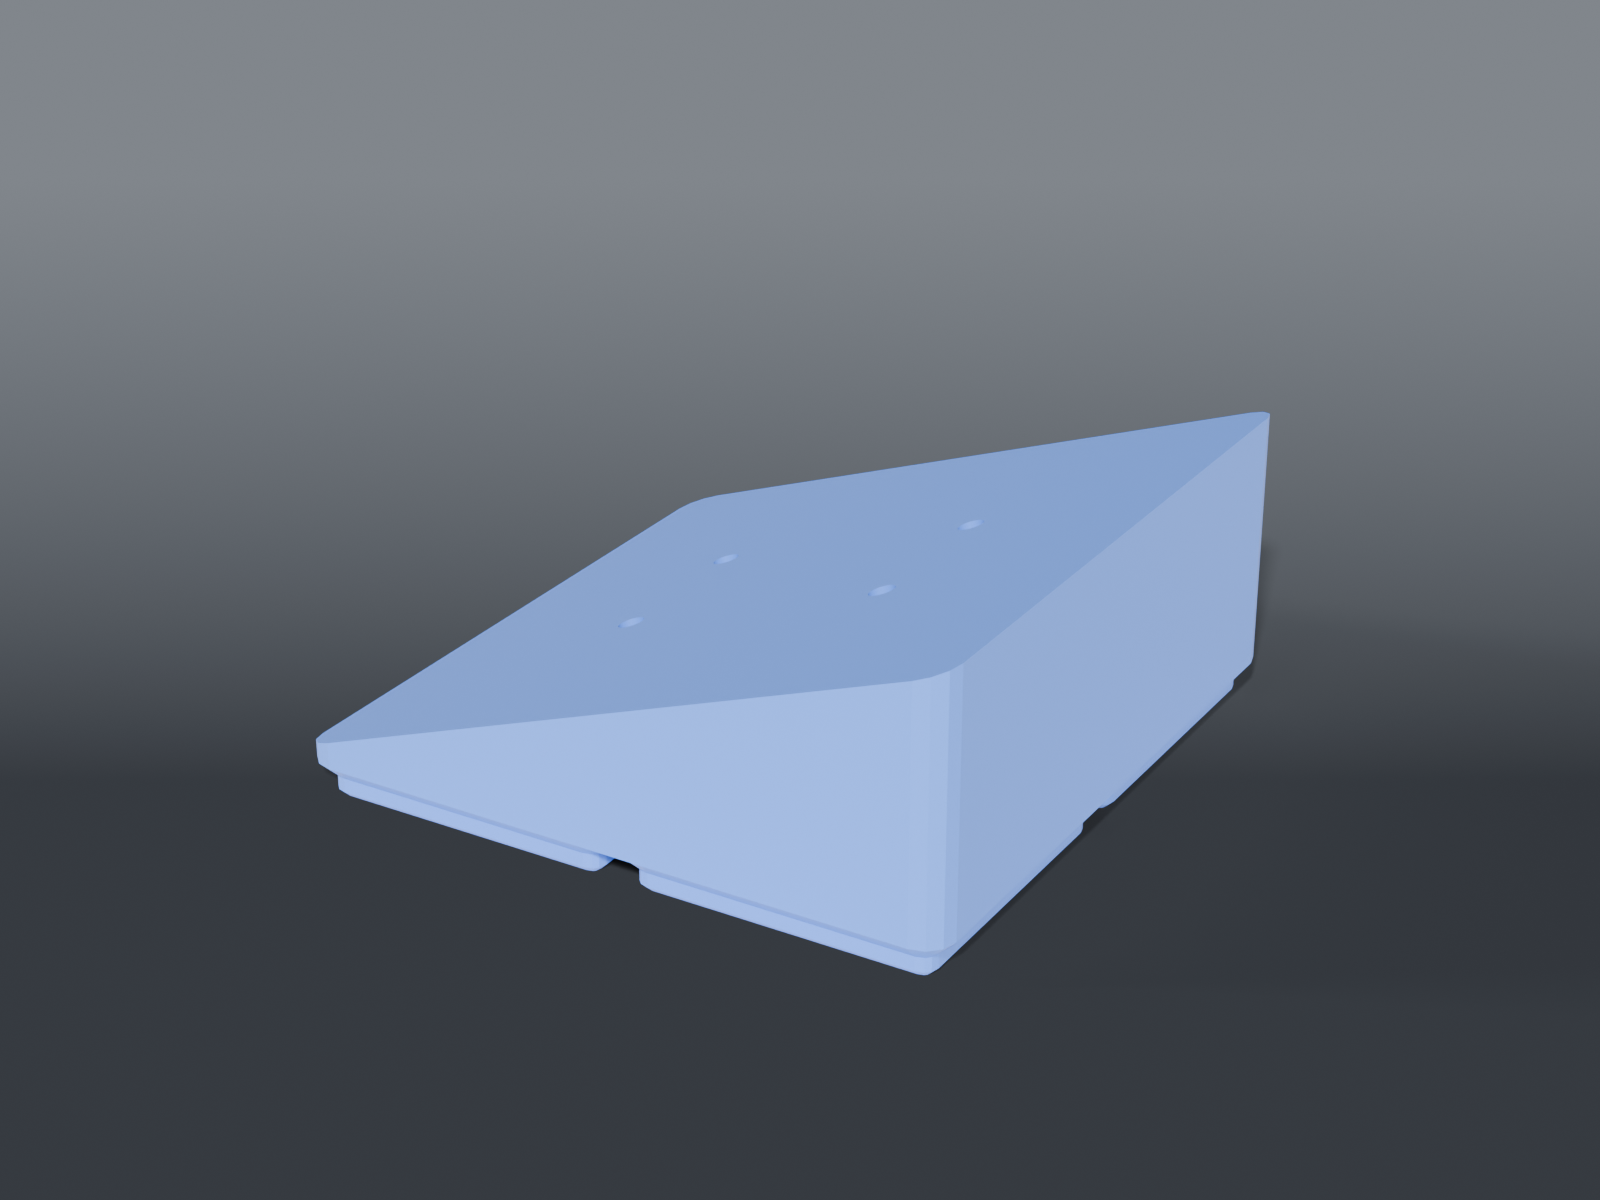
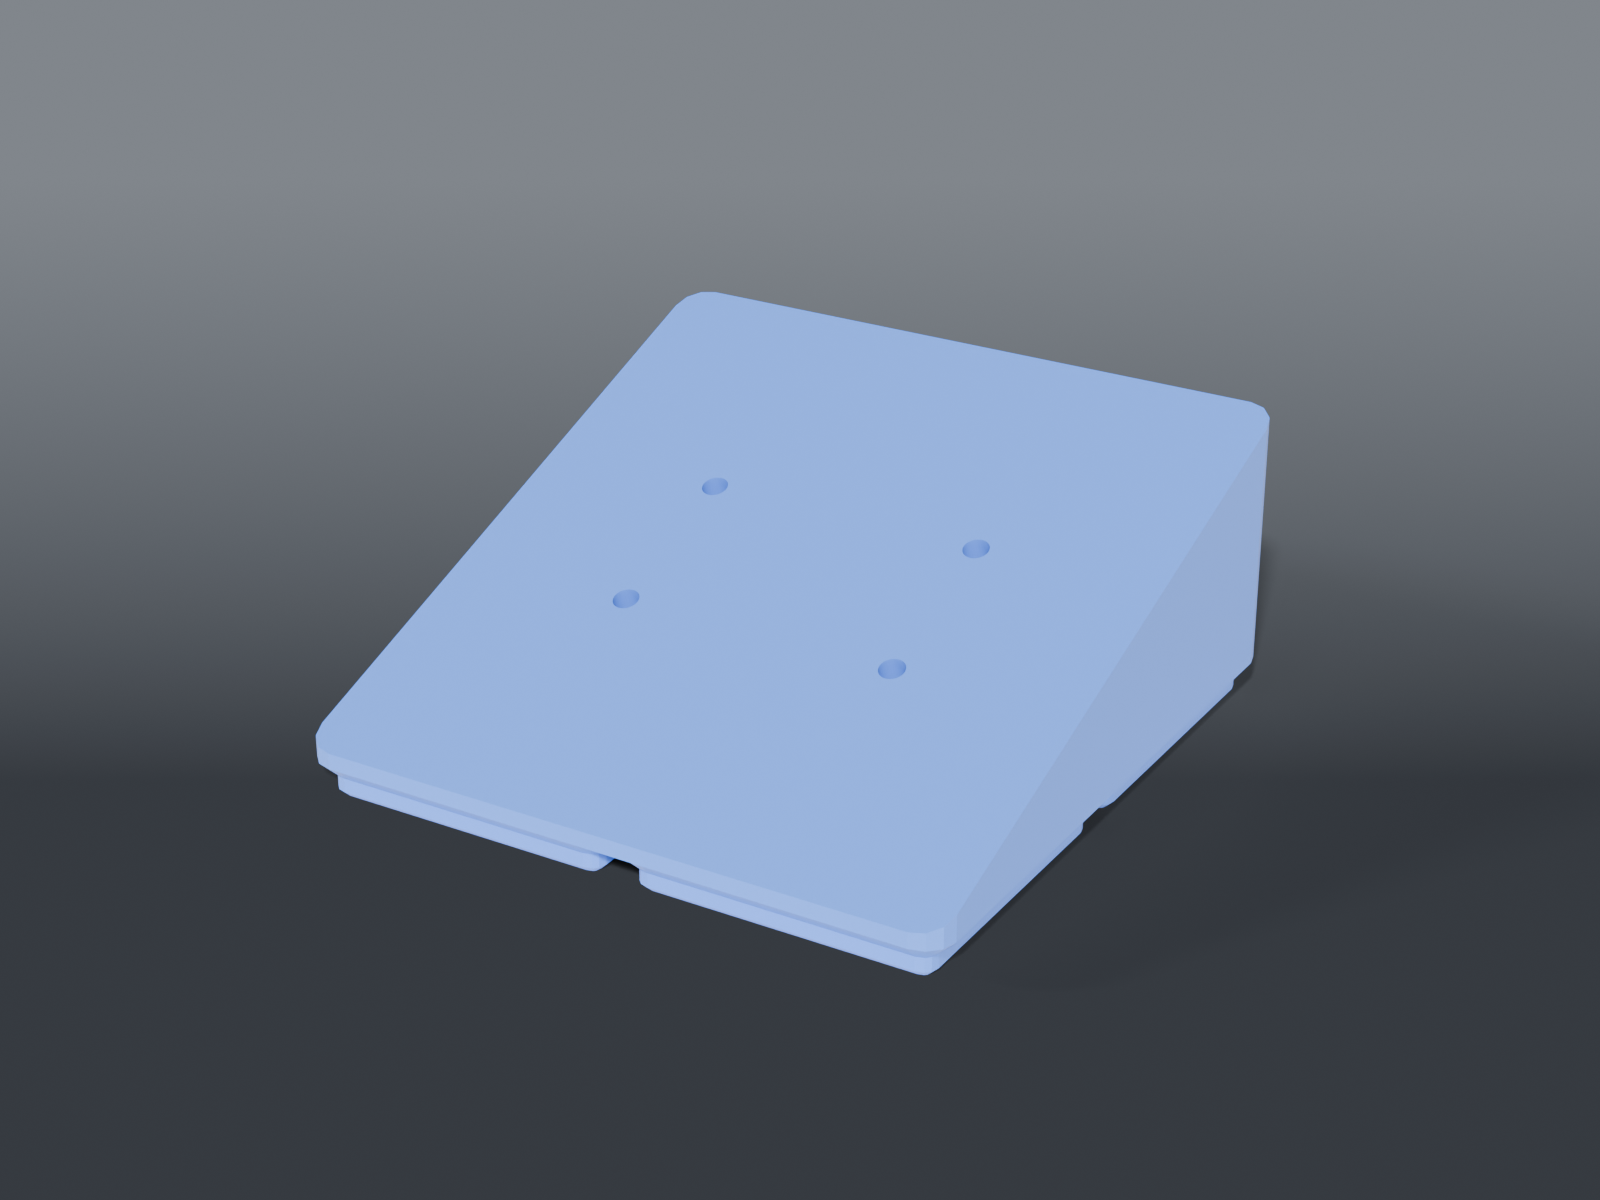
fix(heat-gun-holder): ramp across the 21mm pair, not the 36mm one

Changed region(s): [[0.2188, 0.2467, 0.7812, 0.5858], [0.1875, 0.5858, 0.2188, 0.6167]]

diff --git a/heat-gun-holder/README.md b/heat-gun-holder/README.md
@@ -28,9 +28,14 @@ Parked flat, the gun's auto-off only fired about **45% of the time**. Tilting it
 settle the gun into the cradle instead of leaving it balanced on the magnet. 20°, nozzle end
 down — the user's call on both.
 
-**Only the axis matters, not which way it points.** A Gridfinity plate spins 180° on the grid, so
-the ramp is cut rising along +X and you park the plate with the nozzle at the low end. The rise
-runs along the 36 mm hole spacing.
+**The rise runs across the 21 mm spacing, not the 36.** The two screws that are 36 mm apart sit at
+the *same* height — that side stays level — and the ramp climbs from one 21 mm row to the other.
+
+⚠ **`v2.1.0` shipped this the wrong way round** and tilted the bracket about the wrong axis. If you
+printed that one, it does not sit right; reprint.
+
+Only the *sign* is free: a Gridfinity plate spins 180° on the grid, so the ramp is cut rising along
++Y and you park the plate with the nozzle at the low end.
 
 Three things follow from tilting a bolt-from-below plate, and all three are easy to miss:
 
